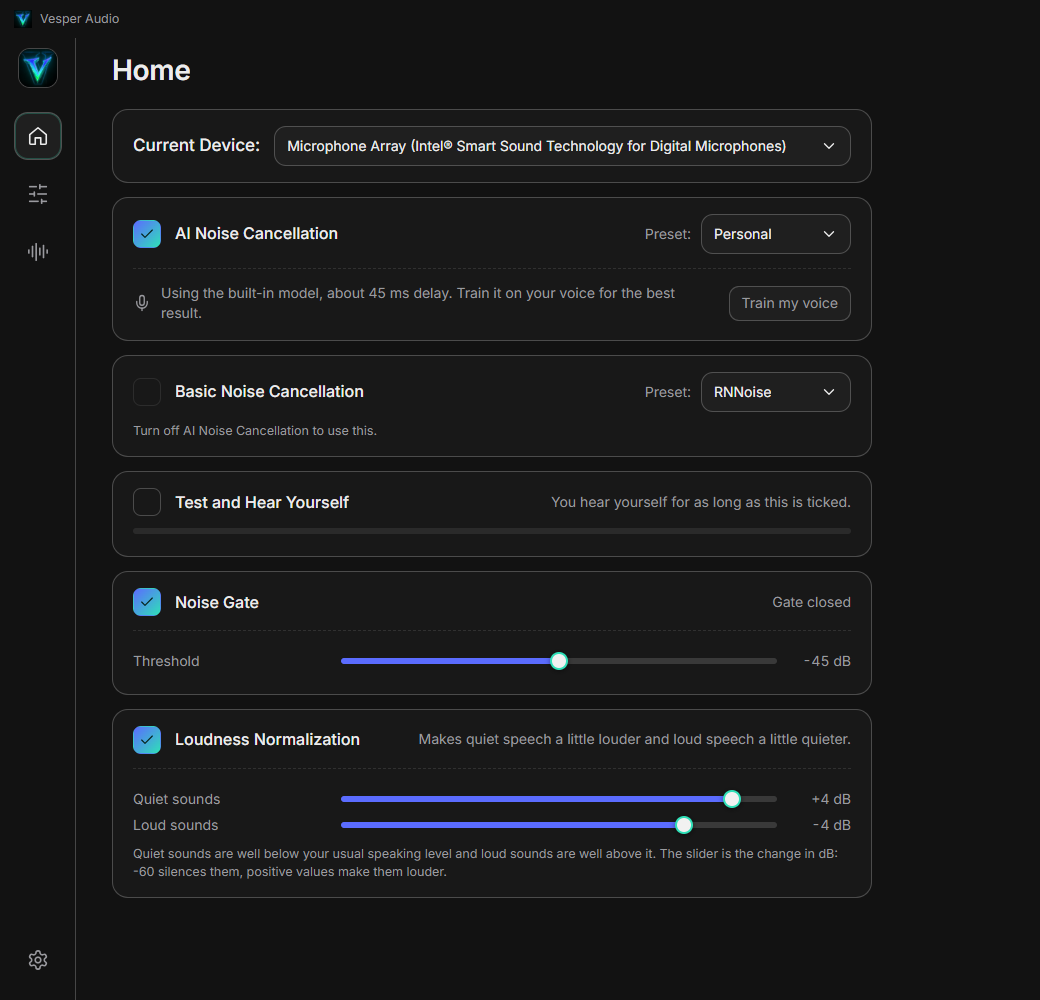
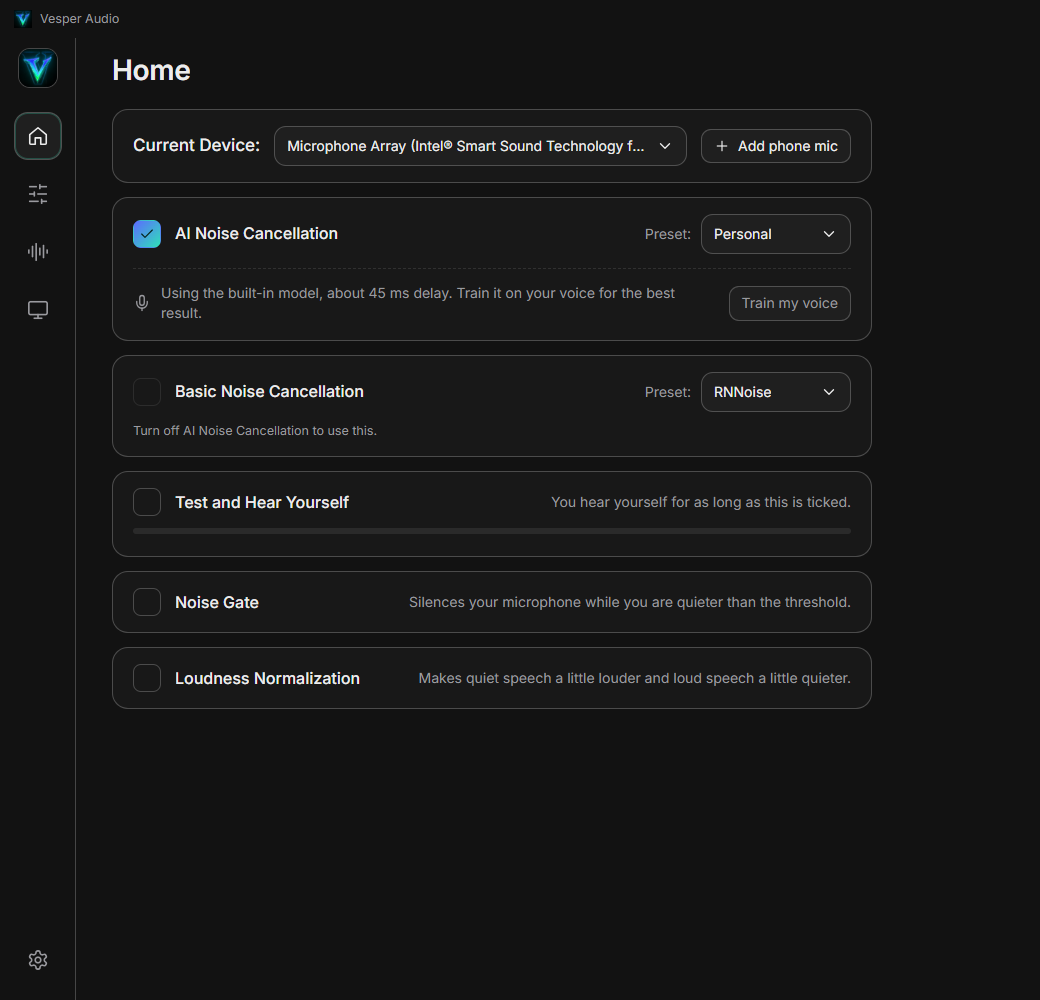
commit for home layout and new screenshots feature

diff --git a/src/ui/style.css b/src/ui/style.css
@@ -127,7 +127,10 @@ h2 { font-size: 20px; font-weight: 600; margin: 0 0 12px; }
 .note .btn { margin-left: auto; }
 
 .device-card { display: flex; align-items: center; gap: 14px; }
-.device-card .select { flex: 1; }
+.device-card .select { flex: 1; min-width: 0; }
+.device-card .label { flex: none; white-space: nowrap; }
+.device-card .select-text { overflow: hidden; text-overflow: ellipsis; white-space: nowrap; }
+.device-card .btn { flex: none; white-space: nowrap; }
 
 .select { position: relative; }
 .select-btn {
